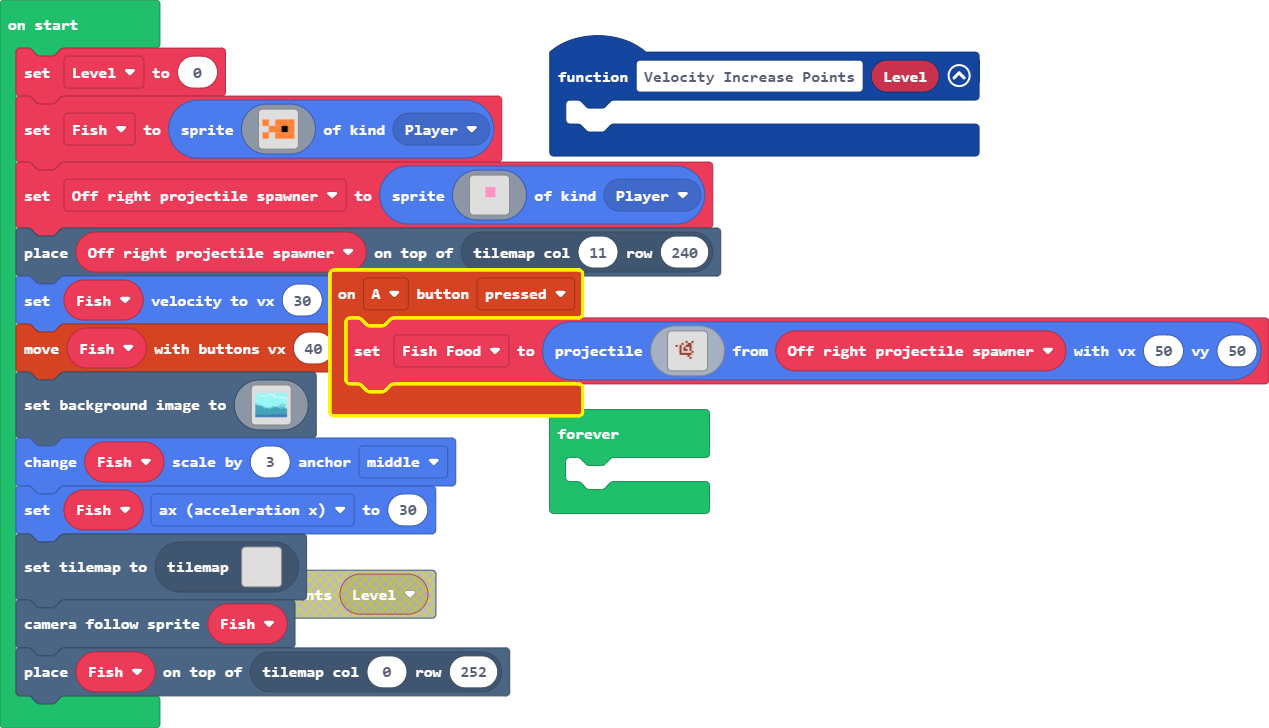
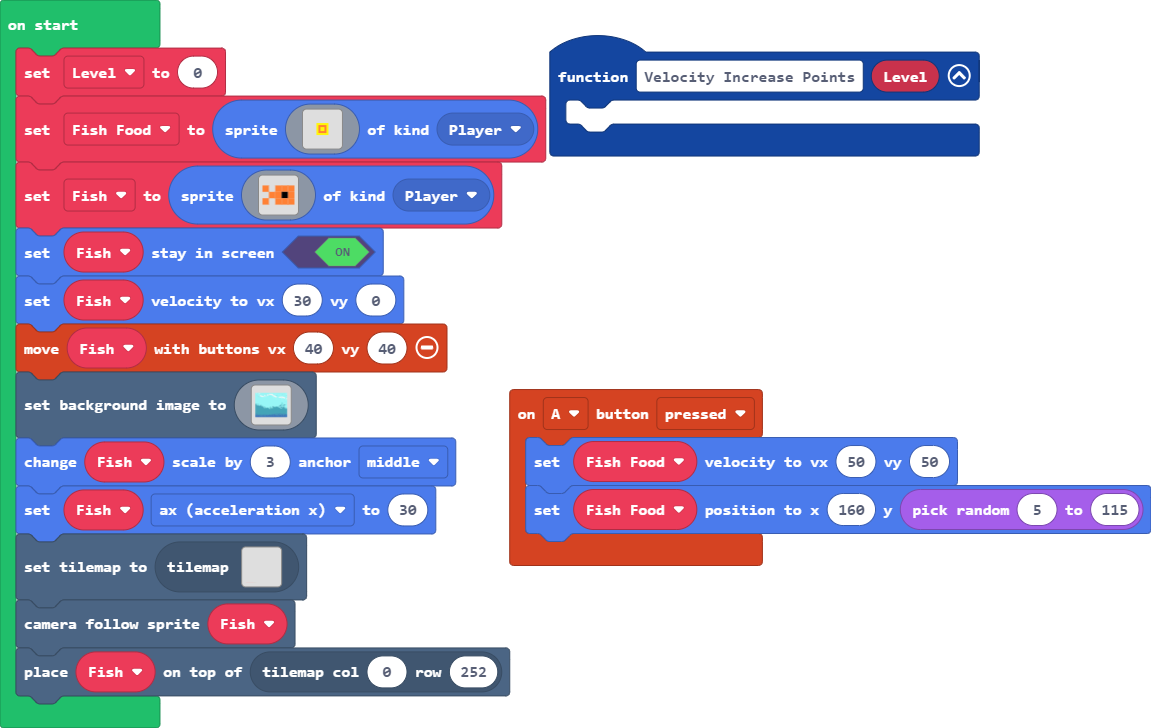
Update main.blocks, main.ts

diff --git a/main.ts b/main.ts
@@ -1,49 +1,32 @@
 controller.A.onEvent(ControllerButtonEvent.Pressed, function () {
-    Fish_Food = sprites.createProjectileFromSprite(img`
-        . . . . . . . . . . . . . . . . 
-        . . . . . . . . . . . . . . . . 
-        . . . . . . . . . . . . . . . . 
-        . . . . . d . e . . e . . . . . 
-        . . . . . e d d e e . . . . . . 
-        . . e d e d d e e e d . . . . . 
-        . . . d e d e d d e d . . . . . 
-        . . . d e d e e d e d . . . . . 
-        . . . d e d d d d d e . . . . . 
-        . . . . e e e e e e d . . . . . 
-        . . . . . . . d e d d . . . . . 
-        . . . . . . . . . e . . . . . . 
-        . . . . . . . . . . . . . . . . 
-        . . . . . . . . . . . . . . . . 
-        . . . . . . . . . . . . . . . . 
-        . . . . . . . . . . . . . . . . 
-        `, Off_right_projectile_spawner, 50, 50)
+    Fish_Food.setVelocity(50, 50)
+    Fish_Food.setPosition(160, randint(5, 115))
 })
 function Velocity_Increase_Points (Level: number) {
 	
 }
 let Fish_Food: Sprite = null
-let Off_right_projectile_spawner: Sprite = null
 let Level = 0
-let Fish = sprites.create(assets.image`myImage`, SpriteKind.Player)
-Off_right_projectile_spawner = sprites.create(img`
+Fish_Food = sprites.create(img`
     . . . . . . . . . . . . . . . . 
     . . . . . . . . . . . . . . . . 
     . . . . . . . . . . . . . . . . 
     . . . . . . . . . . . . . . . . 
-    . . . . . . 3 3 3 3 3 . . . . . 
-    . . . . . . 3 3 3 3 3 . . . . . 
-    . . . . . . 3 3 3 3 3 . . . . . 
-    . . . . . . 3 3 3 3 3 . . . . . 
-    . . . . . . 3 3 3 3 3 . . . . . 
     . . . . . . . . . . . . . . . . 
-    . . . . . . . . . . . . . . . . 
+    . . . . . 5 5 5 5 5 5 . . . . . 
+    . . . . . 5 4 4 4 4 5 . . . . . 
+    . . . . . 5 4 5 5 4 5 . . . . . 
+    . . . . . 5 4 5 5 4 5 . . . . . 
+    . . . . . 5 4 4 4 4 5 . . . . . 
+    . . . . . 5 5 5 5 5 5 . . . . . 
     . . . . . . . . . . . . . . . . 
     . . . . . . . . . . . . . . . . 
     . . . . . . . . . . . . . . . . 
     . . . . . . . . . . . . . . . . 
     . . . . . . . . . . . . . . . . 
     `, SpriteKind.Player)
-tiles.placeOnTile(Off_right_projectile_spawner, tiles.getTileLocation(11, 240))
+let Fish = sprites.create(assets.image`myImage`, SpriteKind.Player)
+Fish.setStayInScreen(true)
 Fish.setVelocity(30, 0)
 controller.moveSprite(Fish, 40, 40)
 scene.setBackgroundImage(assets.image`background water`)
@@ -52,6 +35,3 @@ Fish.ax = 30
 tiles.setCurrentTilemap(tilemap`level`)
 scene.cameraFollowSprite(Fish)
 tiles.placeOnTile(Fish, tiles.getTileLocation(0, 252))
-forever(function () {
-	
-})
